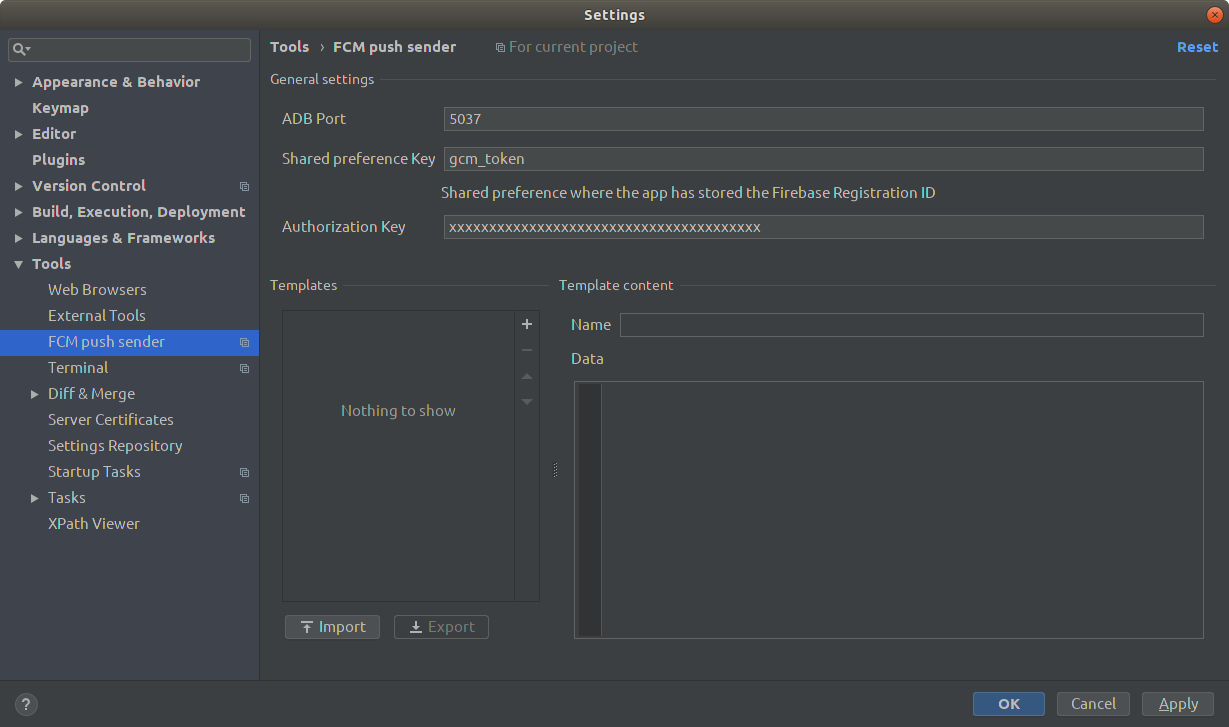
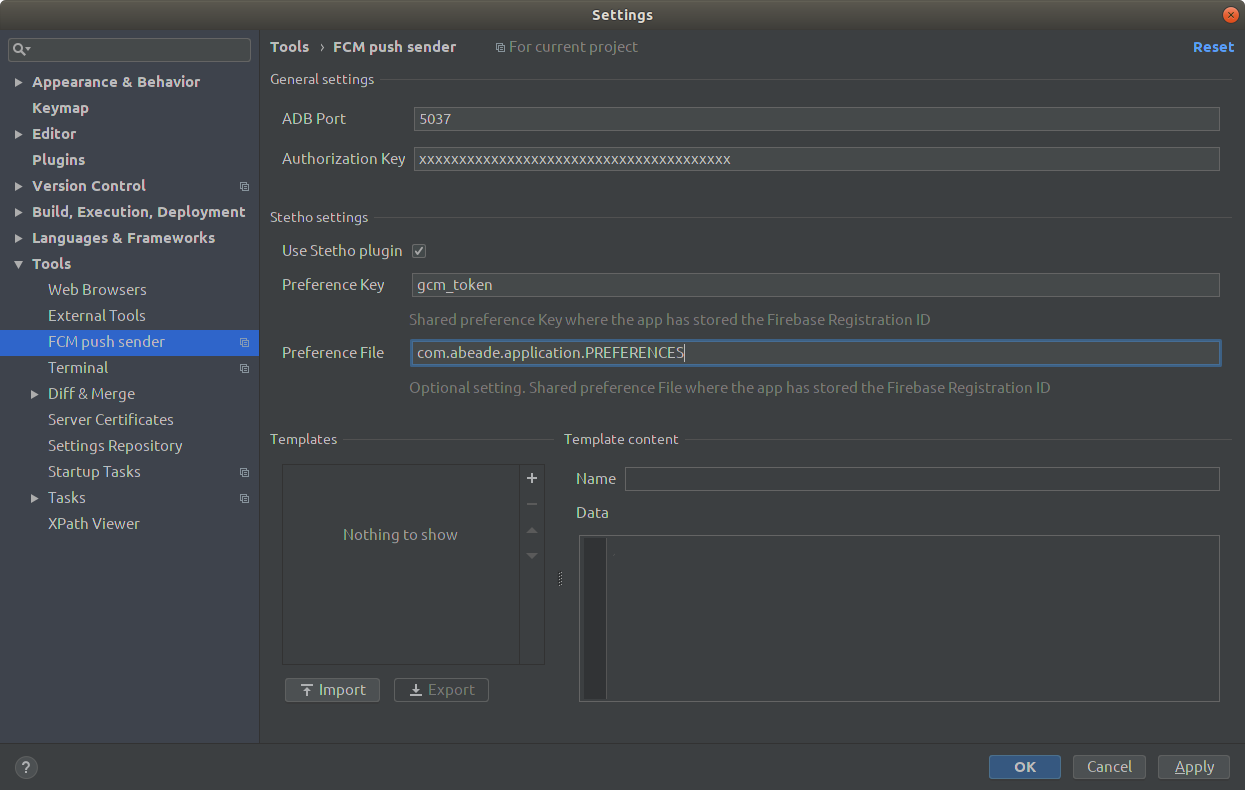
Update readme

diff --git a/README.md b/README.md
@@ -28,8 +28,7 @@ At this point the plugin tries to find the app Firebase Id in the configured sha
 The "Remember" check allows to store the current data for next plugin executions.
 
 # Extra configuration
-
-You can create, import and export templates:
+Also you can create, import and export templates:
 
 ![Settings2](images/settings2.png)
 
@@ -37,3 +36,11 @@ Then you can use the templates in the send dialog:
 
 ![Dialog2](images/push2.png)
 
+# Notes
+One of the main features of this plugin is the ability of search automatically the Firebase Registration ID token in app shared preferences using stetho dumpapp plugin, however you can disable the stetho integration in plugin settings and set the ID manually.
+
+When using stetho to find the Id, the plugin works with one single device connected on debug mode (ADB accessible), no multiple devices are allowed.
+
+If the connected device has more than one stetho-enabled process running, the plugin will ask to select the target process:
+
+![Popup](images/popup.png)
